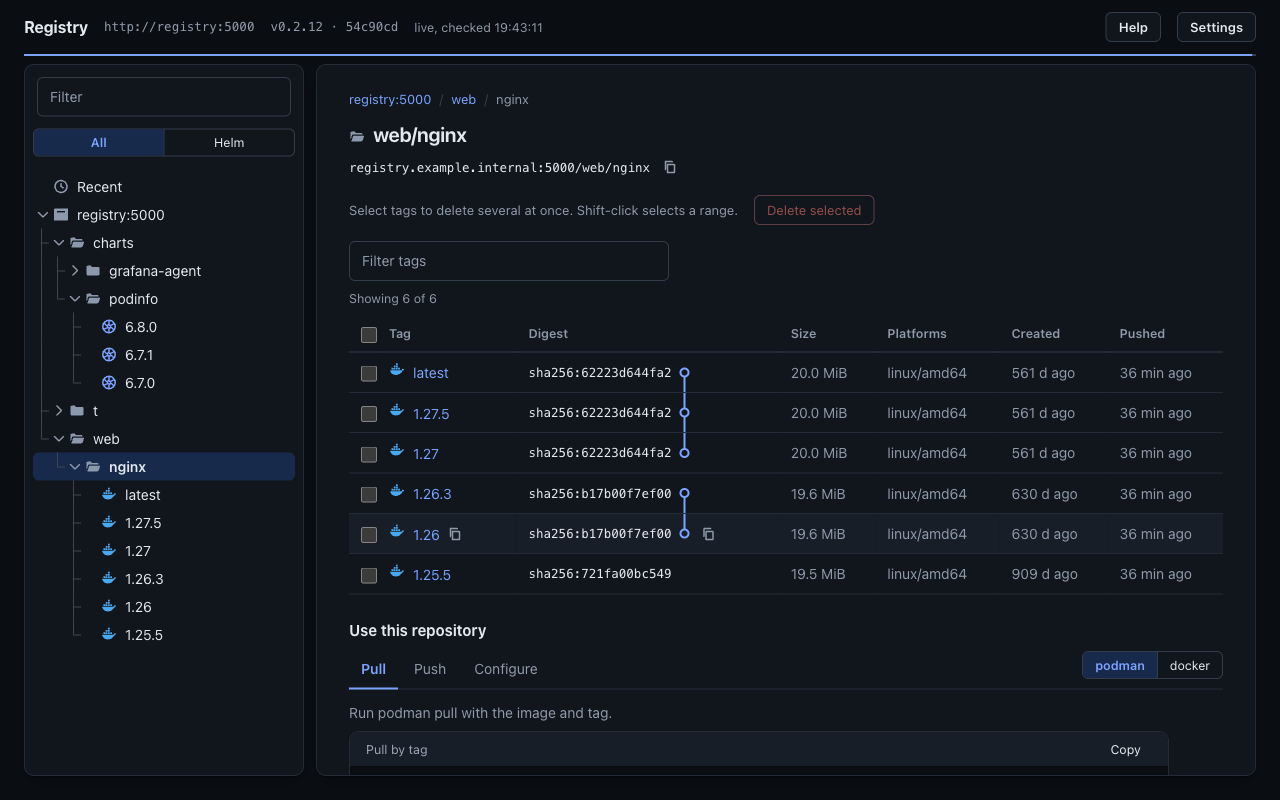
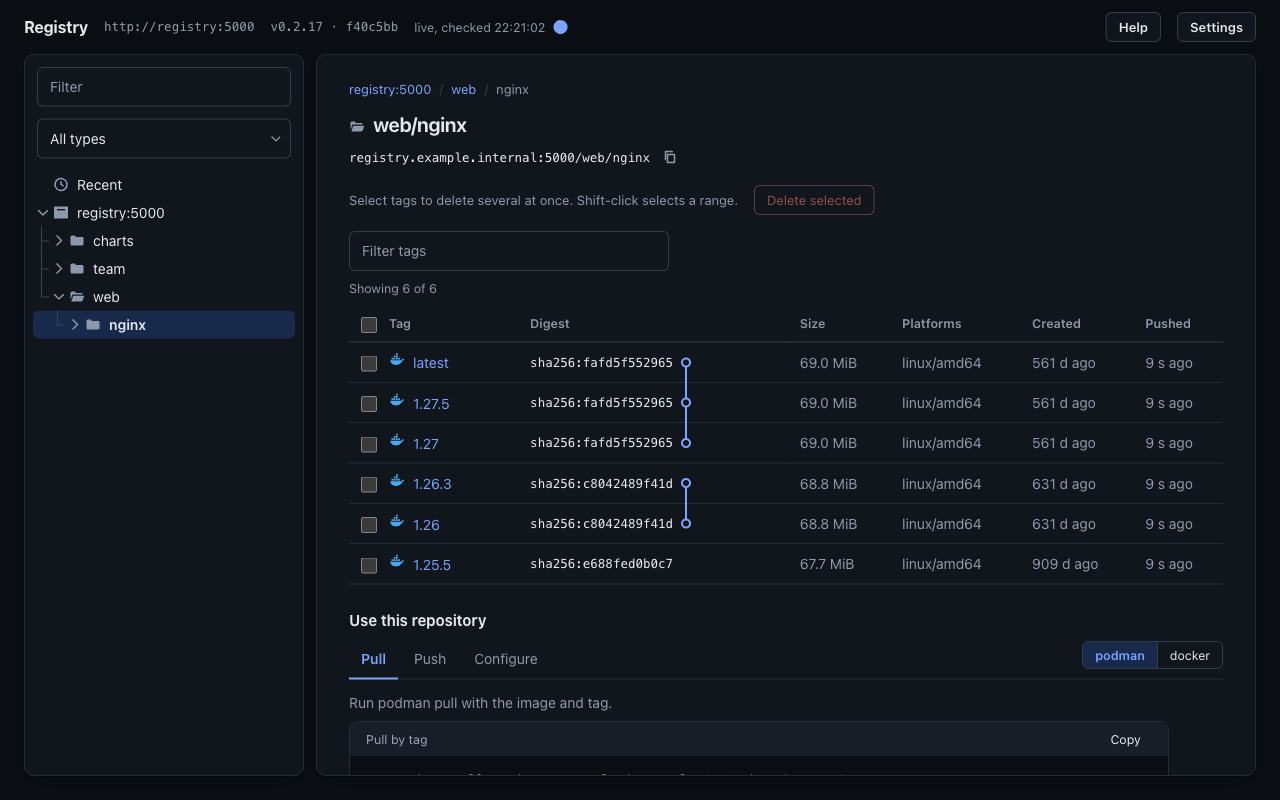
Line up the type list with Filter and keep the digest line unbroken, release 0.2.17
The type list sat 4px wider than the Filter box on each side, was
shorter, and had its Show label outside the box edge. It now uses the
same margins, height, padding and text size as Filter, with the
chevron select already used in Settings. The label is an aria-label.

The line joining tags on one digest stopped at each cell's padding
edge, so every row border cut it. It now reaches 1px past both edges.

diff --git a/app/static/style.css b/app/static/style.css
@@ -245,7 +245,7 @@ tr.pickable.on > td { background:var(--acc-soft); }
 td.dcell { position:relative; } .dcell code { margin-right:22px; } /* room for the line between the digest and its copy icon */
 .dlink { display:none; position:absolute; top:0; bottom:0; left:calc(var(--s3) + 19ch + 8px); width:10px; font:12.5px var(--mono); } /* 19ch: the short digest */
 tr[data-link] .dlink { display:block; }
-.dlink::before { content:""; position:absolute; left:4px; top:0; bottom:0; width:2px; background:var(--acc); }
+.dlink::before { content:""; position:absolute; left:4px; top:-1px; bottom:-1px; width:2px; background:var(--acc); }
 tr[data-link=start] .dlink::before { top:50%; } tr[data-link=end] .dlink::before { bottom:50%; }
 .dlink::after { content:""; position:absolute; left:0; top:50%; width:6px; height:6px; margin-top:-5px; border:2px solid var(--acc); border-radius:50%; background:var(--panel); }
 tr:hover .dlink::after { background:var(--hover); } tr.pickable.on .dlink::after { background:var(--acc-soft); }
@@ -290,7 +290,8 @@ menu { display:flex; gap:var(--s2); justify-content:flex-end; padding:0; margin:
 
 /* PyPI source */
 #types[hidden] { display:none; }
-#types { display:flex; align-items:center; gap:var(--s2); padding:0 var(--s2) var(--s2); } #types label { font-size:12.5px; color:var(--mut); } #types select { flex:1; min-width:0; }
+#types { display:flex; margin:0 var(--s3) var(--s3); } #types .selwrap { flex:1; } /* lines up with #filter above it */
+#types select { flex:1; min-width:0; height:auto; padding:var(--s2) 28px var(--s2) var(--s3); font-size:14px; line-height:inherit; }
 .stats { display:flex; flex-wrap:wrap; gap:var(--s2); margin:calc(var(--s2) * -1) 0 var(--s4); }
 .stat { padding:2px var(--s2); border:1px solid var(--line); border-radius:var(--r1); color:var(--mut); font-size:12.5px; }
 .panetabs { flex-wrap:wrap; border-bottom:1px solid var(--line); margin-bottom:var(--s4); }

diff --git a/app/static/app.js b/app/static/app.js
@@ -2500,10 +2500,10 @@ function drawTypes() {
   const box = $("types"), helm = tree.helm.size > 0 || helmOnly();
   box.hidden = !cfg.pypi && !helm;
   if (box.hidden) return;
-  const opts = [["all", "All"], ...(cfg.pypi ? [["containers", "Containers"]] : []), ...(helm ? [["helm", "Helm charts"]] : []), ...(cfg.pypi ? [["python", "Python"]] : [])];
+  const opts = [["all", "All types"], ...(cfg.pypi ? [["containers", "Containers"]] : []), ...(helm ? [["helm", "Helm charts"]] : []), ...(cfg.pypi ? [["python", "Python"]] : [])];
   // a select, not buttons: four types do not fit a narrow sidebar
-  const sel = el("select", { id: "t-types", onchange: () => applyPrefs({ show: sel.value }) }, ...opts.map(([v, text]) => el("option", { value: v, textContent: text, selected: v === prefs.show })));
-  box.replaceChildren(el("label", { htmlFor: "t-types", textContent: "Show" }), sel);
+  const sel = el("select", { id: "t-types", "aria-label": "Show", onchange: () => applyPrefs({ show: sel.value }) }, ...opts.map(([v, text]) => el("option", { value: v, textContent: text, selected: v === prefs.show })));
+  box.replaceChildren(el("span", { className: "selwrap" }, sel, icon("chev")));
 }
 
 loadPrefs(); applyTheme();

diff --git a/README.md b/README.md
@@ -106,7 +106,7 @@ Add each with `-f`, after `compose.yml` (or after `compose.ui.yml` for a registr
 ## Behaviour
 
 - **Recent** is when the UI saw a change: the registry API has no push times, and pushes before the UI started are not in it. PyPI upload times come from GitLab.
-- **Helm filter.** Once the poller has read a Helm chart, the sidebar's Show list offers Helm charts: only the repositories that hold charts, in the tree, the lists and Recent.
+- **Helm filter.** Once the poller has read a Helm chart, the sidebar's type list under Filter offers Helm charts: only the repositories that hold charts, in the tree, the lists and Recent.
 - **Copy** mounts blobs and writes the original manifest bytes, so the digest does not change. **Move** is copy, check, then delete.
 - **Delete** is by digest, so every tag on that digest goes, and the dialog lists them. A digest that a tagged index uses as a platform is refused (409).
 - **Delete selected** deletes up to 100 tags of one repository at once: tick them in the tag list (the header box ticks every row shown), then confirm. Each digest goes through the single delete with its checks, an index before its own children. The dialog names the tags that go only because they share a digest with a ticked one, and the result lists each tag as deleted, skipped (already gone) or failed with the reason. Shift-click selects every row shown between the last one clicked and this one, and a click on a row outside its links ticks it too. Read-only mode and a missing login hide the checkboxes, and the API refuses the call as it does a single delete.

diff --git a/RELEASE_NOTES.md b/RELEASE_NOTES.md
@@ -4,6 +4,11 @@ registry-lite-ui is a web UI for a plain `registry:2` that browses, copies, move
 
 `podman-compose up -d` with `compose.yml` (registry and UI), or `podman-compose -f compose.ui.yml up -d` with `REGISTRY_URL` set for a registry that already runs. `docker compose` works the same way. Pin `UI_IMAGE` to a version or a digest in your `.env`.
 
+## Changes in 0.2.17
+
+- The sidebar type list lines up with the Filter box above it: same edges, height, padding and text size. The "Show" label beside it is gone (screen readers still announce it) and the first choice reads "All types".
+- The line that joins tags on one digest runs unbroken through the row borders.
+
 ## Changes in 0.2.16
 
 - The countdown pie empties clockwise, like a clock, instead of anticlockwise.
